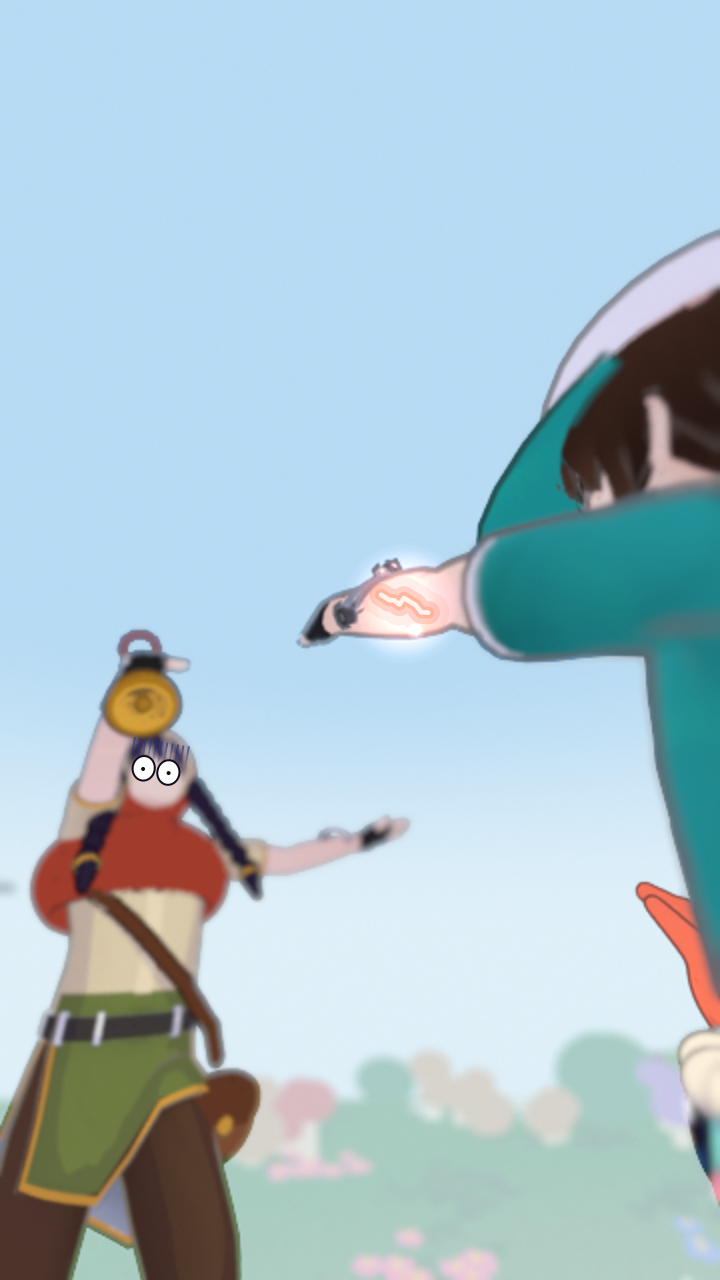
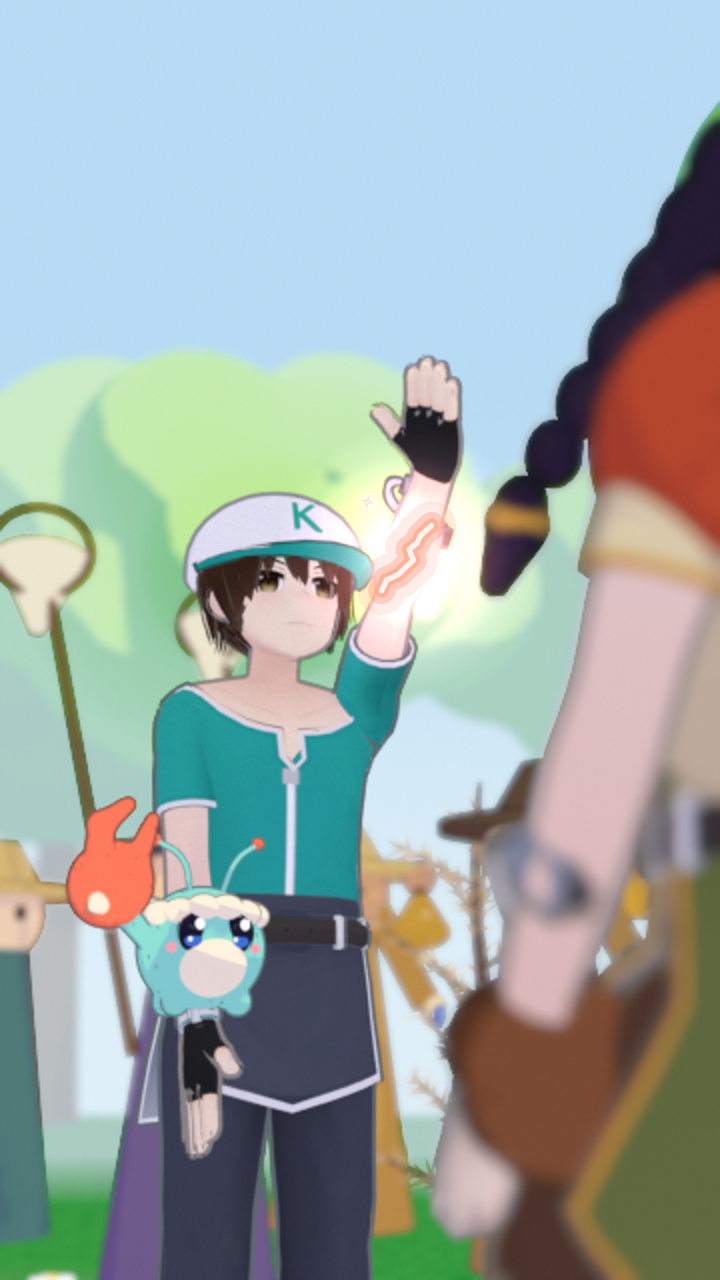
Ep3 S01 re-staged OK stills (f1 the hook, f30 the shrimp on his shoulder); status
Claude-Session: https://claude.ai/code/session_01PF511YEojWTNPFKxSeURms

diff --git a/out/monsters/diorama_ep03/status/helper4.md b/out/monsters/diorama_ep03/status/helper4.md
@@ -1,21 +1,24 @@
 # Helper 4 status (Ep 3)
 
 ## Now
-- **S01 (the hook): OK stills pushed, waiting for your OK:** `okstills/S01_f001.png` (frame 0 of the episode) and
-  `okstills/S01_f036.png` (the shrimp has hopped onto his shoulder). Half-scale renders, upscaled, with the 2D pass.
-  Timing: 62 render frames ("So I did." from f31).
-  - **Camera:** low, out on Kai's left beside his raised arm, 15 mm, a slow push-in on 1s from frame 0. The camera
-    was found with an occlusion-checked probe (earlier tries were behind his back).
-  - **The mark:** his raised left forearm crosses the frame centre with the mark blazing (2D: helper 9's zigzag,
-    white-hot, a pink halo, a pulse, sparkles popping every 0.6 s; 3D: a strong coral light on his arm).
-  - **Wren:** at left, stumbling back (a shorter stumble so she stays in frame), the bell up like a ward, her 2D
-    terror eyes carrying on from Ep 2.
-  - **Kai:** at right, his head turned to her.
-  - **The shrimp:** on "So I did." it crouches on his right hand, jumps in an arc and lands with a squash on his
-    left shoulder (top right at f36).
-  - **Weak spot: the villagers scattering don't read.** They do run off and drop their nets, but from this low
-    angle they're out of frame behind Wren. If you want them seen, I could tilt the camera lower or wider (Wren
-    would get smaller), or the 2D pass could add a few fleeing silhouettes at the bottom edge. Your call.
+- **S01 (the hook), RE-STAGED per your 10:50 notes: new OK stills, waiting for your OK.** `okstills/S01_f001.png`
+  (frame 0 of the episode) and `okstills/S01_f030.png` (the shrimp landed on his left shoulder). The old f036 is
+  removed. Half-scale renders, upscaled, with the 2D pass.
+  1. **Camera:** low, behind and to the left of Wren, looking up at Kai, 40 mm, a slow push-in on 1s. Found with an
+     occlusion-checked probe so nothing hides his face, the mark or his shoulder. Her hood and braid are soft in the
+     near right foreground; as she stumbles back she moves past the lens.
+  2. **Kai faces camera:** his raised LEFT wrist above his face, the inner forearm to us.
+     - **The mark blazes:** helper 9's `mark()` zigzag at 2.1x, a white-hot core, a coral line, a pink halo and a
+       white bloom, sparkles every 0.6 s, plus a coral light that also lights his face. It's the brightest thing
+       in frame.
+     - **The 2D mark only draws where the camera really sees his forearm** (ray-cast per frame), so it can never
+       land on Wren.
+  3. **Behind him:** the villagers on the meadow flinch, turn and scatter sideways and away, dropping their nets.
+  4. **The shrimp:** in his right hand at f1; it hops onto his LEFT shoulder beside his neck (helper 3's S02 perch
+     and size, never the cap) by f30.
+  5. **Light:** a warm low sun from Wren's side; the mark is brighter.
+  - **Weak spot:** his face reads steady rather than clearly nervous/defiant at phone size. The face keys are pushed
+    (brows down, a tight wide mouth); I can add a 2D sweat drop if you want more.
 - **S11: FINAL, pushed** (`shots/S11.mp4` + `S11_sheet.jpg`).
   - **File:** 92 frames (= render_frames), 720x1280, crf 10, 0 Lavf/Lavc/x264 strings. The edge-band scan found no
     black edges; the background is dark navy, which is not unpainted canvas.
